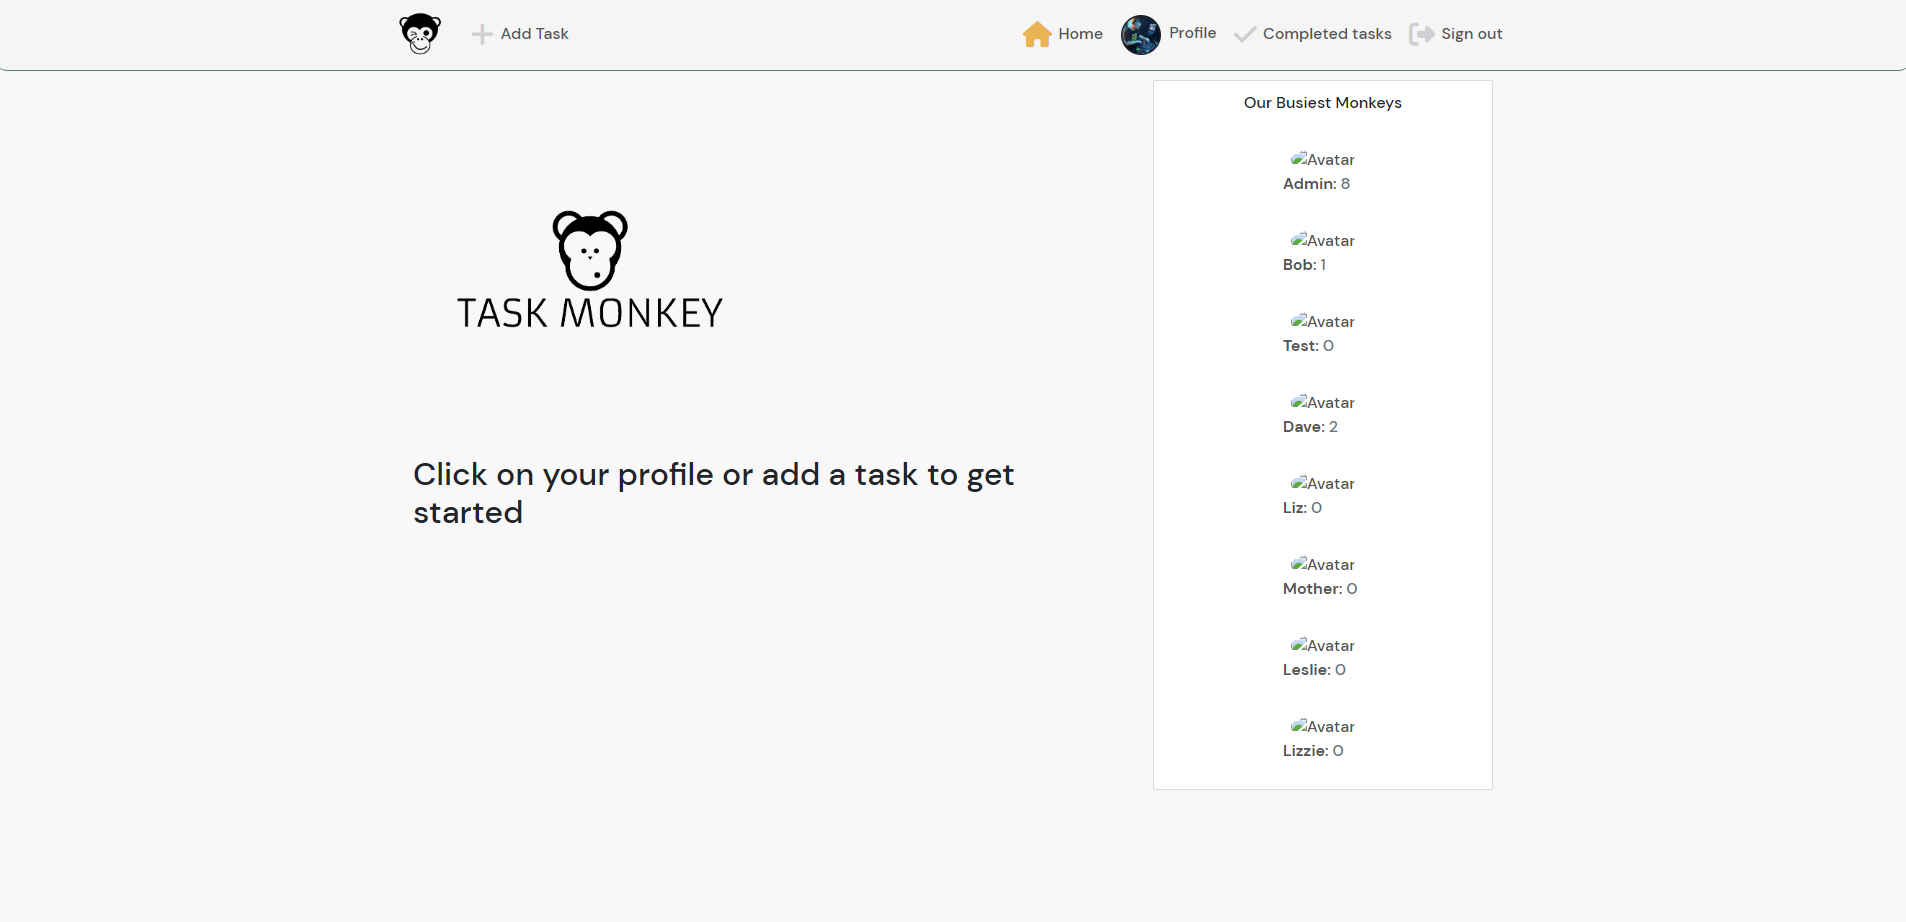
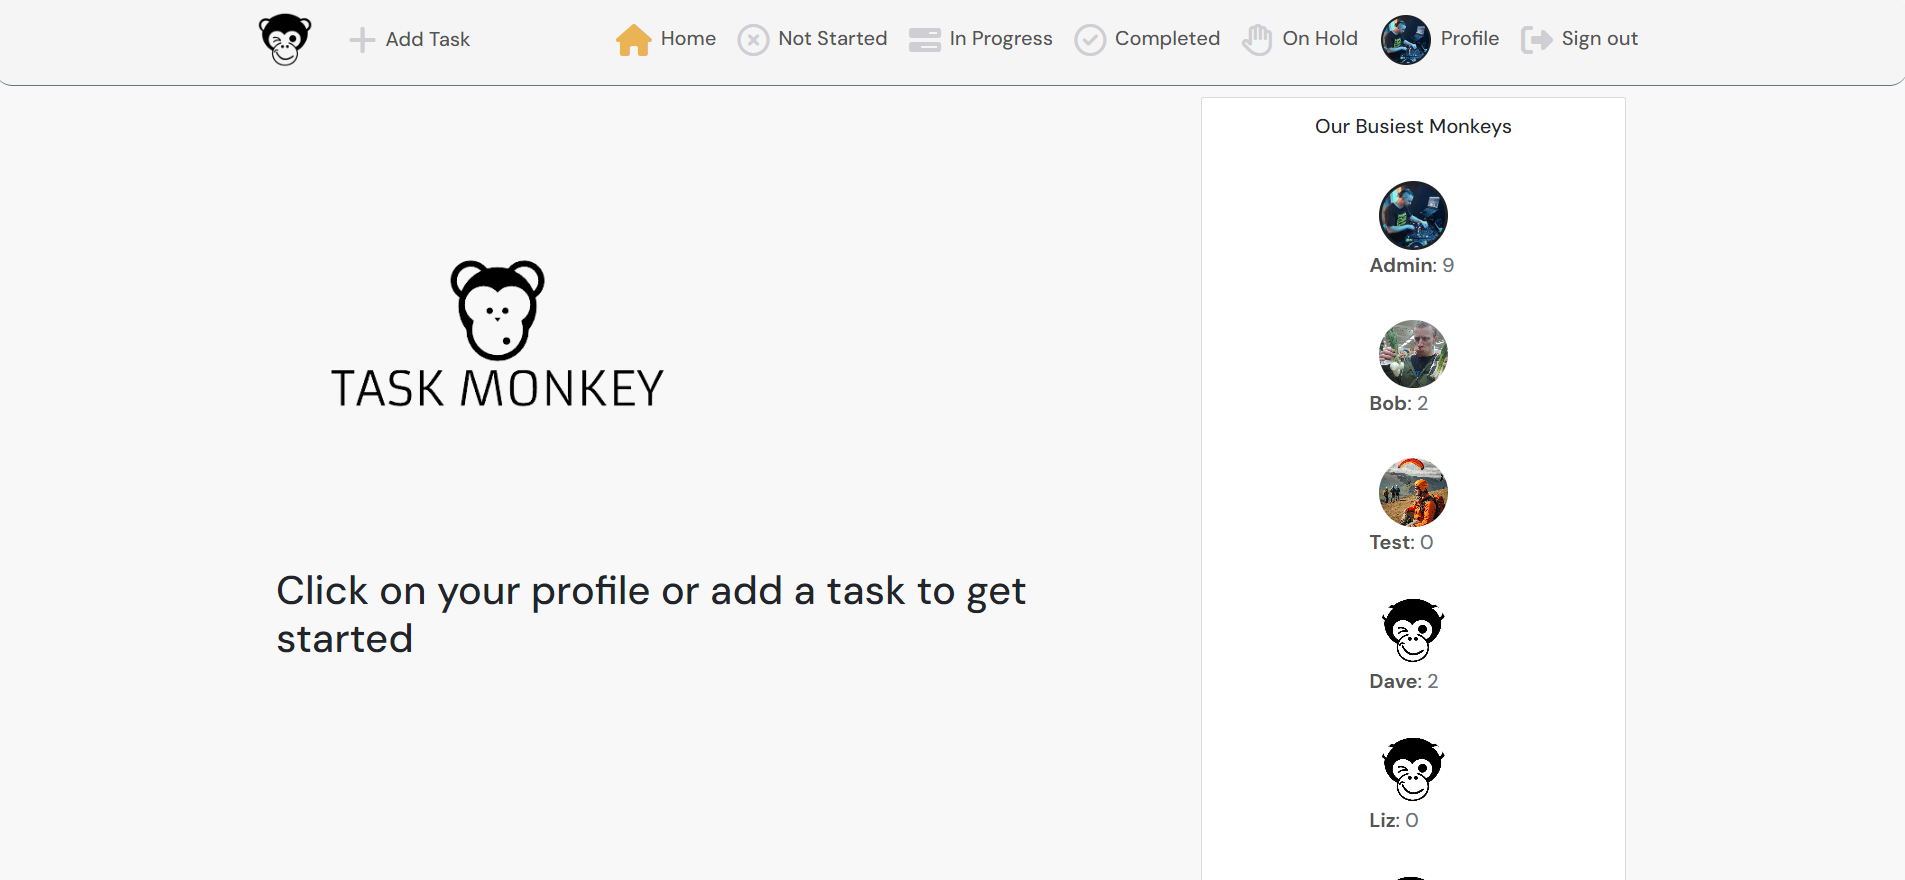
replace images in documentation and update readme

diff --git a/README.md b/README.md
@@ -329,9 +329,14 @@ NavBar Mobile Expanded
 - Logo and wePbsite name both are links for home page
 - Navbar consists of a links to a signin page and signup page for logged out users
 - Authenticated/Signed in user can see additional icons as follows:
+  - Home: Take users to home page
   - Add tasks: It opens the task create form page
-  - In Progress: Shows tasks which users have as on-going
-  - Completed tasks: Shows tasks which users have marked as completed
+  
+  - Not Started: displays all tasks marked as Not started (status 1)
+  - In Progress: Shows tasks which users have as on-going (status 2)
+  - Completed tasks: Shows tasks which users have marked as completed (status 3)
+  - On Hold: displays tasks marked as On Hold (status 4)
+
   - Logout: This is used for user to logout
   - Profile: This shows the user avatar and opens the user's profile page
 - Feature is fully responsive and on smaller screen sizes it coverts into a 'Hamburger menu'
